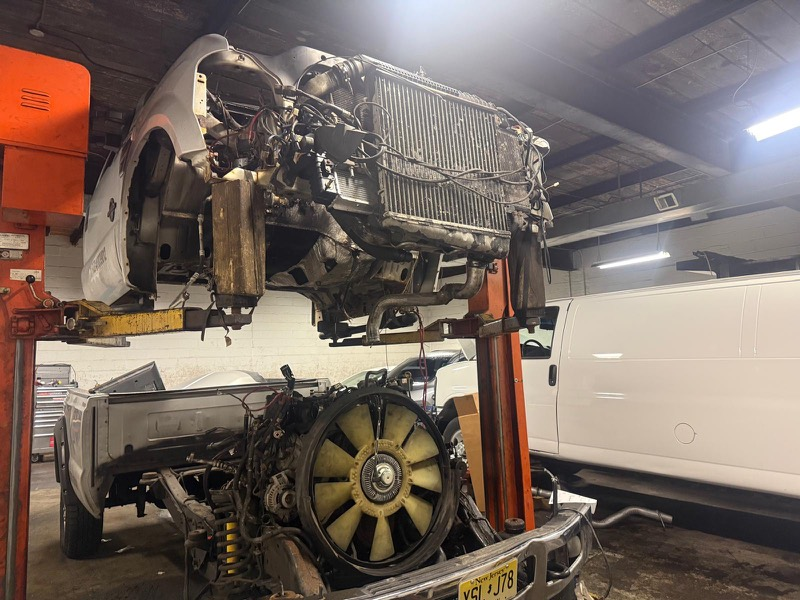
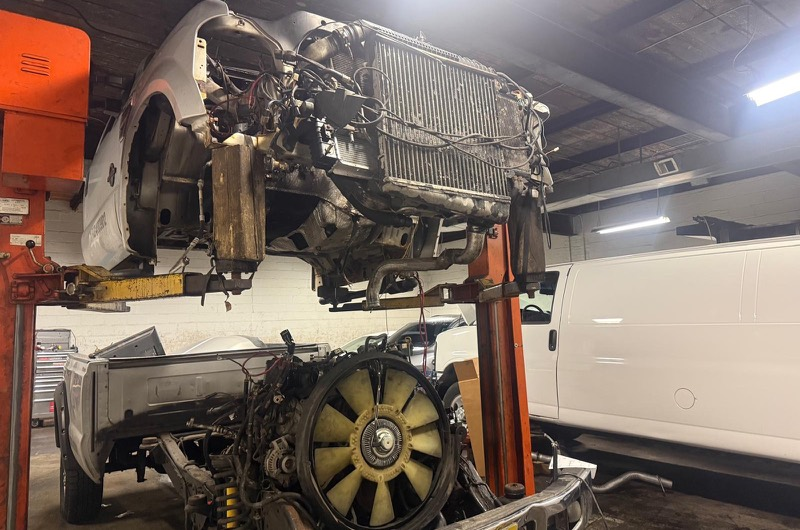
fix: crop licence plates out and loop the carousel

diff --git a/src/components/sections.tsx b/src/components/sections.tsx
@@ -155,14 +155,21 @@ export function PhotoCarousel() {
 
   const count = galleryPhotos.length
 
-  const scrollToIndex = (index: number) => {
+  /**
+   * Wrapping past either end jumps instead of gliding: animating back across
+   * every slide reads as a mistake, and it gets slower with each photo the
+   * client adds.
+   */
+  const scrollToIndex = (index: number, wrapped = false) => {
     const track = trackRef.current
     if (!track) return
     const slide = track.children[index] as HTMLElement | undefined
     if (!slide) return
     const reduced = window.matchMedia('(prefers-reduced-motion: reduce)').matches
-    track.scrollTo({ left: slide.offsetLeft, behavior: reduced ? 'auto' : 'smooth' })
+    track.scrollTo({ left: slide.offsetLeft, behavior: reduced || wrapped ? 'auto' : 'smooth' })
   }
+
+  const goTo = (index: number) => scrollToIndex((index + count) % count, index < 0 || index >= count)
 
   /** Which slide sits nearest the left edge, for the dots and the labels. */
   const handleScroll = () => {
@@ -232,21 +239,21 @@ export function PhotoCarousel() {
           <span className="text-sm tabular-nums text-smoke">
             {t('photos.position', { index: active + 1, total: count })}
           </span>
+          {/* Both arrows wrap, so the last photo leads back to the first and
+              the set stays circular however many the client adds. */}
           <button
             type="button"
-            onClick={() => scrollToIndex(Math.max(0, active - 1))}
-            disabled={active === 0}
+            onClick={() => goTo(active - 1)}
             aria-label={t('photos.previous')}
-            className="hidden h-10 w-10 items-center justify-center rounded-pill border border-line transition-colors duration-200 hover:border-ink disabled:opacity-30 sm:inline-flex"
+            className="hidden h-10 w-10 items-center justify-center rounded-pill border border-line transition-colors duration-200 hover:border-ink sm:inline-flex"
           >
             <Chevron direction="left" />
           </button>
           <button
             type="button"
-            onClick={() => scrollToIndex(Math.min(count - 1, active + 1))}
-            disabled={active === count - 1}
+            onClick={() => goTo(active + 1)}
             aria-label={t('photos.next')}
-            className="hidden h-10 w-10 items-center justify-center rounded-pill border border-line transition-colors duration-200 hover:border-ink disabled:opacity-30 sm:inline-flex"
+            className="hidden h-10 w-10 items-center justify-center rounded-pill border border-line transition-colors duration-200 hover:border-ink sm:inline-flex"
           >
             <Chevron direction="right" />
           </button>

diff --git a/src/content/photos.ts b/src/content/photos.ts
@@ -33,10 +33,12 @@ export const heroPhoto: Photo | null = {
  * a 4:3 crop keeps the mechanical work centered.
  */
 export const galleryPhotos: Photo[] = [
-  { name: 'lift', width: 1600, height: 1200, altKey: 'photos.alt.lift' },
+  // Cropped above a customer's readable licence plate; see photos-source/.
+  { name: 'lift', width: 1600, height: 1060, altKey: 'photos.alt.lift' },
   { name: 'interior', width: 1600, height: 1200, altKey: 'photos.alt.interior' },
   { name: 'lot', width: 1600, height: 1200, altKey: 'photos.alt.lot' },
-  { name: 'engine', width: 1200, height: 1600, altKey: 'photos.alt.engine' },
+  // Same crop, tight on the engine itself.
+  { name: 'engine', width: 1200, height: 415, altKey: 'photos.alt.engine' },
   { name: 'block', width: 1200, height: 1600, altKey: 'photos.alt.block' },
 ]
 
